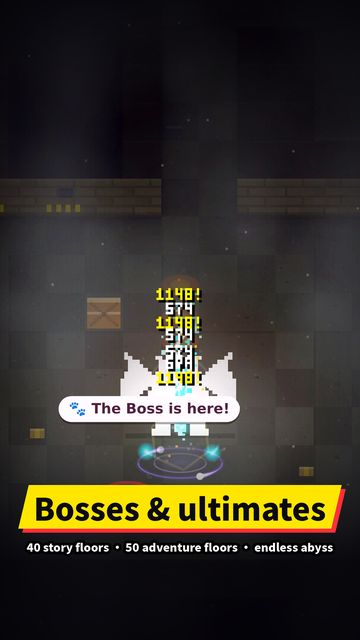
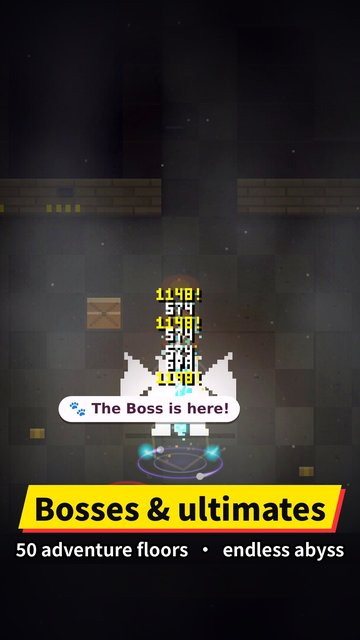
媒體資料、遊戲頁：AI 素材標示改成統一說法（插畫頭像是 AI 生成）；截圖拿掉故事層數
Claude-Session: https://claude.ai/code/session_01RSLKRUKWEYHR6oohRmj5VF

Changed region(s): [[0.0306, 0.8438, 0.9472, 0.875]]

diff --git a/en/presskit.html b/en/presskit.html
@@ -7,6 +7,6 @@
 <link rel="stylesheet" href="../assets/site.css?v=10202108"><script src="../assets/app.js?v=10202108" defer></script></head>
 <body class="en"><header class="hd"><div class="w"><a class="logo" href="dungeon.html"><img src="../app/dg-logo.png" alt="" width="44" height="44" style="width:44px;height:44px;image-rendering:pixelated;flex:none"><span>Night Market Dungeon</span></a>
 <nav class="nav" aria-label="Menu"><a href="dungeon.html">Play</a><a href="terms.html">Terms &amp; Privacy</a><a href="../dungeon.html" lang="zh-Hant">中文</a></nav></div></header>
-<main class="w"><style>.pk{width:100%;max-width:1000px;margin:0 auto;text-align:left;align-self:stretch}.pk .gl,.pk .gw,.pk dl{width:100%}.pk .cta{justify-content:flex-start}.pk .ptitle{text-align:left}.pk h2{margin:34px 0 12px;font-size:1.25rem}.pk .lead{font-size:1.05rem;line-height:1.75;max-width:70ch}.pk .key{width:100%;height:auto;border:2px solid #000;box-shadow:4px 4px 0 #FFE600;margin:6px 0 4px}.pk .cta{display:flex;flex-wrap:wrap;gap:10px;margin:16px 0}.pk dl{display:grid;grid-template-columns:max-content 1fr;gap:8px 18px;margin:0}.pk dt{color:#B8A8D8;font-weight:700}.pk dd{margin:0}.pk ul.ft2{padding-left:1.2em;line-height:1.8}.pk .gl{display:grid;grid-template-columns:repeat(auto-fill,minmax(150px,1fr));gap:10px}.pk .gw{display:grid;grid-template-columns:repeat(auto-fill,minmax(280px,1fr));gap:10px}.pk .gl a,.pk .gw a{display:block;border:2px solid #000;background:#000}.pk .gl img,.pk .gw img{display:block;width:100%;height:auto}.pk .ic{display:flex;gap:16px;align-items:center;flex-wrap:wrap}.pk .ic img{width:96px;height:96px;image-rendering:pixelated;border:2px solid #000}.pk .note{color:#9A8AB8;font-size:.9rem}@media (max-width:560px){.pk dl{grid-template-columns:1fr}.pk dt{margin-top:6px}}</style><div class="pk"><span class="kick" style="margin-top:22px">PRESS KIT</span><h1 class="ptitle" style="margin-bottom:12px">Night Market Dungeon — Press Kit</h1><img class="key" src="../presskit/key_en.jpg" width="1024" height="500" alt="Night Market Dungeon key art"><p class="lead">When the night market closes, the dungeon underneath wakes up. Night Market Dungeon is a pixel action roguelite set under a Taiwanese night market: grab a spatula, an umbrella or your phone and fight your way down, collect legendary weapons, run your own night-market manor, and work a 3D sausage stall — solo or with up to 4 players online. It runs right in your phone or desktop browser, no download needed — and it is also on the App Store (iPhone) and Google Play (Android).</p><div class="cta"><a class="btn y" href="dungeon.html?src=presskit">▶ Play now (browser)</a><a class="btn o" href="https://apps.apple.com/tw/app/id6821595769" target="_blank" rel="noopener">App Store</a><a class="btn o" href="https://play.google.com/store/apps/details?id=com.youbishop.nightmarket" target="_blank" rel="noopener">Google Play</a><a class="btn o" href="../presskit.html" lang="zh-Hant">中文媒體資料</a><a class="btn o" href="mailto:kunoya.store@gmail.com?subject=Night%20Market%20Dungeon%20press">✉ Press contact</a></div><h2>Fact sheet</h2><dl><dt>Title</dt><dd>Night Market Dungeon (夜市地下城)</dd><dt>Developer</dt><dd>玖悠谷國際企業社 (Taiwan)</dd><dt>Genre</dt><dd>Pixel action roguelite</dd><dt>Platforms</dt><dd>Web browser (mobile &amp; desktop), Android, iPhone</dd><dt>Players</dt><dd>Single player, or online co-op for up to 4</dd><dt>Languages</dt><dd>English, Traditional Chinese</dd><dt>Price</dt><dd>Free to play; optional cosmetics. No gacha, loot boxes or random paid items; levels and XP cannot be bought</dd><dt>Rating</dt><dd>Rated 15+ (cartoon pixel combat; blood effects can be turned off)</dd><dt>Updates</dt><dd>Weekly</dd><dt>Contact</dt><dd><a href="mailto:kunoya.store@gmail.com">kunoya.store@gmail.com</a></dd></dl><h2>Features</h2><ul class="ft2"><li><b>Snappy pixel action</b>: melee, ranged and a 3-stage charged throw; time your parry to send bullets back; smash the walls.</li><li><b>Legendary weapons</b>: every legendary weapon has its own skill, plus the Golden Dragon ultimate.</li><li><b>Lots to play</b>: Story Mode, a 50-floor Adventure Mode plus the endless Abyss, Guardian Trials and a Daily Challenge.</li><li><b>3D sausage stall</b> (new): flip, fan the fire and glaze; residents you know drop by to chat. Run it together with 2–4 players.</li><li><b>Online co-op for up to 4</b>: join friends by room code or quick match; chat is safety-filtered.</li><li><b>Manor &amp; pets</b>: build your own night-market manor, raise pets and befriend the residents.</li><li><b>Fair monetization</b>: upgrades and star-ups always succeed; paid items are outfits and pets only.</li></ul><h2>Screenshots</h2><p class="note">Click for full size (landscape 1600 px, portrait 1080×1920).</p><div class="gw"><a href="../presskit/land_1.jpg" target="_blank" rel="noopener"><img loading="lazy" src="../presskit/t/land_1.jpg" width="640" height="360" alt=""></a><a href="../presskit/land_2.jpg" target="_blank" rel="noopener"><img loading="lazy" src="../presskit/t/land_2.jpg" width="640" height="360" alt=""></a><a href="../presskit/land_3.jpg" target="_blank" rel="noopener"><img loading="lazy" src="../presskit/t/land_3.jpg" width="640" height="360" alt=""></a><a href="../presskit/land_4.jpg" target="_blank" rel="noopener"><img loading="lazy" src="../presskit/t/land_4.jpg" width="640" height="360" alt=""></a></div><div class="gl" style="margin-top:10px"><a href="../presskit/en_01.jpg" target="_blank" rel="noopener"><img loading="lazy" src="../presskit/t/en_01.jpg" width="360" height="640" alt=""></a><a href="../presskit/en_02.jpg" target="_blank" rel="noopener"><img loading="lazy" src="../presskit/t/en_02.jpg" width="360" height="640" alt=""></a><a href="../presskit/en_03.jpg" target="_blank" rel="noopener"><img loading="lazy" src="../presskit/t/en_03.jpg" width="360" height="640" alt=""></a><a href="../presskit/en_04.jpg" target="_blank" rel="noopener"><img loading="lazy" src="../presskit/t/en_04.jpg" width="360" height="640" alt=""></a><a href="../presskit/en_05.jpg" target="_blank" rel="noopener"><img loading="lazy" src="../presskit/t/en_05.jpg" width="360" height="640" alt=""></a><a href="../presskit/en_06.jpg" target="_blank" rel="noopener"><img loading="lazy" src="../presskit/t/en_06.jpg" width="360" height="640" alt=""></a><a href="../presskit/en_07.jpg" target="_blank" rel="noopener"><img loading="lazy" src="../presskit/t/en_07.jpg" width="360" height="640" alt=""></a><a href="../presskit/en_08.jpg" target="_blank" rel="noopener"><img loading="lazy" src="../presskit/t/en_08.jpg" width="360" height="640" alt=""></a><a href="../presskit/en_09.jpg" target="_blank" rel="noopener"><img loading="lazy" src="../presskit/t/en_09.jpg" width="360" height="640" alt=""></a><a href="../presskit/en_10.jpg" target="_blank" rel="noopener"><img loading="lazy" src="../presskit/t/en_10.jpg" width="360" height="640" alt=""></a></div><h2>Logo</h2><div class="ic"><img src="../app/dg-512.png" alt="Night Market Dungeon icon"><p>App icon (512×512 PNG): <a href="../app/dg-512.png" target="_blank" rel="noopener">download</a></p></div><h2>Usage</h2><p>Press, reviewers, streamers and video creators may use the screenshots, key art and icon on this page for coverage — monetized videos are fine, no need to ask. Please don't alter the logo or use it to imply a partnership or endorsement.</p><p class="note">All in-game art is original pixel art. Boss Nightcat and the residents talk through AI; this is labeled in the game and is for fun only.</p></div></main>
+<main class="w"><style>.pk{width:100%;max-width:1000px;margin:0 auto;text-align:left;align-self:stretch}.pk .gl,.pk .gw,.pk dl{width:100%}.pk .cta{justify-content:flex-start}.pk .ptitle{text-align:left}.pk h2{margin:34px 0 12px;font-size:1.25rem}.pk .lead{font-size:1.05rem;line-height:1.75;max-width:70ch}.pk .key{width:100%;height:auto;border:2px solid #000;box-shadow:4px 4px 0 #FFE600;margin:6px 0 4px}.pk .cta{display:flex;flex-wrap:wrap;gap:10px;margin:16px 0}.pk dl{display:grid;grid-template-columns:max-content 1fr;gap:8px 18px;margin:0}.pk dt{color:#B8A8D8;font-weight:700}.pk dd{margin:0}.pk ul.ft2{padding-left:1.2em;line-height:1.8}.pk .gl{display:grid;grid-template-columns:repeat(auto-fill,minmax(150px,1fr));gap:10px}.pk .gw{display:grid;grid-template-columns:repeat(auto-fill,minmax(280px,1fr));gap:10px}.pk .gl a,.pk .gw a{display:block;border:2px solid #000;background:#000}.pk .gl img,.pk .gw img{display:block;width:100%;height:auto}.pk .ic{display:flex;gap:16px;align-items:center;flex-wrap:wrap}.pk .ic img{width:96px;height:96px;image-rendering:pixelated;border:2px solid #000}.pk .note{color:#9A8AB8;font-size:.9rem}@media (max-width:560px){.pk dl{grid-template-columns:1fr}.pk dt{margin-top:6px}}</style><div class="pk"><span class="kick" style="margin-top:22px">PRESS KIT</span><h1 class="ptitle" style="margin-bottom:12px">Night Market Dungeon — Press Kit</h1><img class="key" src="../presskit/key_en.jpg" width="1024" height="500" alt="Night Market Dungeon key art"><p class="lead">When the night market closes, the dungeon underneath wakes up. Night Market Dungeon is a pixel action roguelite set under a Taiwanese night market: grab a spatula, an umbrella or your phone and fight your way down, collect legendary weapons, run your own night-market manor, and work a 3D sausage stall — solo or with up to 4 players online. It runs right in your phone or desktop browser, no download needed — and it is also on the App Store (iPhone) and Google Play (Android).</p><div class="cta"><a class="btn y" href="dungeon.html?src=presskit">▶ Play now (browser)</a><a class="btn o" href="https://apps.apple.com/tw/app/id6821595769" target="_blank" rel="noopener">App Store</a><a class="btn o" href="https://play.google.com/store/apps/details?id=com.youbishop.nightmarket" target="_blank" rel="noopener">Google Play</a><a class="btn o" href="../presskit.html" lang="zh-Hant">中文媒體資料</a><a class="btn o" href="mailto:kunoya.store@gmail.com?subject=Night%20Market%20Dungeon%20press">✉ Press contact</a></div><h2>Fact sheet</h2><dl><dt>Title</dt><dd>Night Market Dungeon (夜市地下城)</dd><dt>Developer</dt><dd>玖悠谷國際企業社 (Taiwan)</dd><dt>Genre</dt><dd>Pixel action roguelite</dd><dt>Platforms</dt><dd>Web browser (mobile &amp; desktop), Android, iPhone</dd><dt>Players</dt><dd>Single player, or online co-op for up to 4</dd><dt>Languages</dt><dd>English, Traditional Chinese</dd><dt>Price</dt><dd>Free to play; optional cosmetics. No gacha, loot boxes or random paid items; levels and XP cannot be bought</dd><dt>Rating</dt><dd>Rated 15+ (cartoon pixel combat; blood effects can be turned off)</dd><dt>Updates</dt><dd>Weekly</dd><dt>Contact</dt><dd><a href="mailto:kunoya.store@gmail.com">kunoya.store@gmail.com</a></dd></dl><h2>Features</h2><ul class="ft2"><li><b>Snappy pixel action</b>: melee, ranged and a 3-stage charged throw; time your parry to send bullets back; smash the walls.</li><li><b>Legendary weapons</b>: every legendary weapon has its own skill, plus the Golden Dragon ultimate.</li><li><b>Lots to play</b>: Story Mode, a 50-floor Adventure Mode plus the endless Abyss, Guardian Trials and a Daily Challenge.</li><li><b>3D sausage stall</b> (new): flip, fan the fire and glaze; residents you know drop by to chat. Run it together with 2–4 players.</li><li><b>Online co-op for up to 4</b>: join friends by room code or quick match; chat is safety-filtered.</li><li><b>Manor &amp; pets</b>: build your own night-market manor, raise pets and befriend the residents.</li><li><b>Fair monetization</b>: upgrades and star-ups always succeed; paid items are outfits and pets only.</li></ul><h2>Screenshots</h2><p class="note">Click for full size (landscape 1600 px, portrait 1080×1920).</p><div class="gw"><a href="../presskit/land_1.jpg" target="_blank" rel="noopener"><img loading="lazy" src="../presskit/t/land_1.jpg" width="640" height="360" alt=""></a><a href="../presskit/land_2.jpg" target="_blank" rel="noopener"><img loading="lazy" src="../presskit/t/land_2.jpg" width="640" height="360" alt=""></a><a href="../presskit/land_3.jpg" target="_blank" rel="noopener"><img loading="lazy" src="../presskit/t/land_3.jpg" width="640" height="360" alt=""></a><a href="../presskit/land_4.jpg" target="_blank" rel="noopener"><img loading="lazy" src="../presskit/t/land_4.jpg" width="640" height="360" alt=""></a></div><div class="gl" style="margin-top:10px"><a href="../presskit/en_01.jpg" target="_blank" rel="noopener"><img loading="lazy" src="../presskit/t/en_01.jpg" width="360" height="640" alt=""></a><a href="../presskit/en_02.jpg" target="_blank" rel="noopener"><img loading="lazy" src="../presskit/t/en_02.jpg" width="360" height="640" alt=""></a><a href="../presskit/en_03.jpg" target="_blank" rel="noopener"><img loading="lazy" src="../presskit/t/en_03.jpg" width="360" height="640" alt=""></a><a href="../presskit/en_04.jpg" target="_blank" rel="noopener"><img loading="lazy" src="../presskit/t/en_04.jpg" width="360" height="640" alt=""></a><a href="../presskit/en_05.jpg" target="_blank" rel="noopener"><img loading="lazy" src="../presskit/t/en_05.jpg" width="360" height="640" alt=""></a><a href="../presskit/en_06.jpg" target="_blank" rel="noopener"><img loading="lazy" src="../presskit/t/en_06.jpg" width="360" height="640" alt=""></a><a href="../presskit/en_07.jpg" target="_blank" rel="noopener"><img loading="lazy" src="../presskit/t/en_07.jpg" width="360" height="640" alt=""></a><a href="../presskit/en_08.jpg" target="_blank" rel="noopener"><img loading="lazy" src="../presskit/t/en_08.jpg" width="360" height="640" alt=""></a><a href="../presskit/en_09.jpg" target="_blank" rel="noopener"><img loading="lazy" src="../presskit/t/en_09.jpg" width="360" height="640" alt=""></a><a href="../presskit/en_10.jpg" target="_blank" rel="noopener"><img loading="lazy" src="../presskit/t/en_10.jpg" width="360" height="640" alt=""></a></div><h2>Logo</h2><div class="ic"><img src="../app/dg-512.png" alt="Night Market Dungeon icon"><p>App icon (512×512 PNG): <a href="../app/dg-512.png" target="_blank" rel="noopener">download</a></p></div><h2>Usage</h2><p>Press, reviewers, streamers and video creators may use the screenshots, key art and icon on this page for coverage — monetized videos are fine, no need to ask. Please don't alter the logo or use it to imply a partnership or endorsement.</p><p class="note">This game contains AI-generated assets; Boss Nightcat&#x27;s and the residents&#x27; dialogue is generated by AI, for entertainment only.</p></div></main>
 <footer class="ft"><div class="w"><p>Night Market Dungeon · by 玖悠谷game (Jiuyougu Game) · youbi-shop.com　|　<a href="terms.html">Terms of Service &amp; Privacy</a></p><p>An indie game studio in Taiwan.</p></div></footer>
 </body></html>

diff --git a/presskit.html b/presskit.html
@@ -7,7 +7,7 @@
 <header class="hd"><div class="w"><a class="logo" href="index.html"><img src="app/dg-logo.png" alt="" width="44" height="44" style="width:44px;height:44px;image-rendering:pixelated;flex:none"><span>玖悠谷game</span></a>
 
 <nav class="nav" aria-label="主選單"><a href="index.html">首頁</a><a href="dungeon.html" aria-current="page">夜市地下城</a><a href="presskit.html">媒體資料</a><a href="terms.html">條款與隱私</a></nav></div></header>
-<main class="w"><style>.pk{width:100%;max-width:1000px;margin:0 auto;text-align:left;align-self:stretch}.pk .gl,.pk .gw,.pk dl{width:100%}.pk .cta{justify-content:flex-start}.pk .ptitle{text-align:left}.pk h2{margin:34px 0 12px;font-size:1.25rem}.pk .lead{font-size:1.05rem;line-height:1.75;max-width:70ch}.pk .key{width:100%;height:auto;border:2px solid #000;box-shadow:4px 4px 0 #FFE600;margin:6px 0 4px}.pk .cta{display:flex;flex-wrap:wrap;gap:10px;margin:16px 0}.pk dl{display:grid;grid-template-columns:max-content 1fr;gap:8px 18px;margin:0}.pk dt{color:#B8A8D8;font-weight:700}.pk dd{margin:0}.pk ul.ft2{padding-left:1.2em;line-height:1.8}.pk .gl{display:grid;grid-template-columns:repeat(auto-fill,minmax(150px,1fr));gap:10px}.pk .gw{display:grid;grid-template-columns:repeat(auto-fill,minmax(280px,1fr));gap:10px}.pk .gl a,.pk .gw a{display:block;border:2px solid #000;background:#000}.pk .gl img,.pk .gw img{display:block;width:100%;height:auto}.pk .ic{display:flex;gap:16px;align-items:center;flex-wrap:wrap}.pk .ic img{width:96px;height:96px;image-rendering:pixelated;border:2px solid #000}.pk .note{color:#9A8AB8;font-size:.9rem}@media (max-width:560px){.pk dl{grid-template-columns:1fr}.pk dt{margin-top:6px}}</style><div class="pk"><span class="kick" style="margin-top:22px">PRESS KIT</span><h1 class="ptitle" style="margin-bottom:12px">夜市地下城 媒體資料</h1><img class="key" src="presskit/key_zh.jpg" width="1024" height="500" alt="夜市地下城 主視覺"><p class="lead">夜市打烊後，攤位底下的地下城醒了過來。《夜市地下城》是以台灣夜市為主題的像素動作冒險遊戲，拿起鍋鏟、雨傘、手機往下一層一層打，收集傳說武器、經營自己的夜市莊園，也可以在 3D 烤香腸攤顧攤，最多 4 人連線一起玩。手機、電腦打開瀏覽器就能玩，不用下載；也有 iPhone（App Store）和 Android（Google Play）版。</p><div class="cta"><a class="btn y" href="dungeon.html?src=presskit">▶ 立即試玩（網頁版）</a><a class="btn o" href="https://apps.apple.com/tw/app/id6821595769" target="_blank" rel="noopener">App Store</a><a class="btn o" href="https://play.google.com/store/apps/details?id=com.youbishop.nightmarket" target="_blank" rel="noopener">Google Play</a><a class="btn o" href="en/presskit.html">English press kit</a><a class="btn o" href="mailto:kunoya.store@gmail.com?subject=%E5%A4%9C%E5%B8%82%E5%9C%B0%E4%B8%8B%E5%9F%8E%20%E5%AA%92%E9%AB%94%E8%81%AF%E7%B5%A1">✉ 媒體聯絡</a></div><h2>基本資料</h2><dl><dt>遊戲名稱</dt><dd>夜市地下城（Night Market Dungeon）</dd><dt>開發／營運</dt><dd>玖悠谷國際企業社（台灣）</dd><dt>類型</dt><dd>像素動作冒險、Roguelite</dd><dt>平台</dt><dd>網頁瀏覽器（手機、電腦）、Android、iPhone</dd><dt>人數</dt><dd>單人，或最多 4 人連線合作</dd><dt>語言</dt><dd>繁體中文、英文</dd><dt>價格</dt><dd>免費遊玩；可選購造型類道具，沒有轉蛋、抽獎或機率商品，等級和經驗不能買</dd><dt>分級</dt><dd>輔導十五歲級（卡通像素打鬥，流血效果可以關掉）</dd><dt>更新</dt><dd>每週更新</dd><dt>聯絡</dt><dd><a href="mailto:kunoya.store@gmail.com">kunoya.store@gmail.com</a></dd></dl><h2>遊戲特色</h2><ul class="ft2"><li><b>爽快的像素動作</b>：近戰、遠程、三段蓄力投擲；看準時機格擋，把子彈打回去；牆壁打得碎。</li><li><b>傳說武器與專屬必殺</b>：每一把傳說武器都有自己的技能，還有奧義「金龍巡夜」。</li><li><b>豐富的關卡</b>：故事模式、冒險模式 50 層＋無盡深淵、守護神的試煉、每日挑戰。</li><li><b>3D 夜市烤香腸攤</b>（新）：翻面、搧火、刷醬，熟識的居民會來光顧、找你聊天；也能 2～4 人一起顧攤。</li><li><b>最多 4 人連線</b>：房號找朋友或隨機配對，聊天有安全過濾。</li><li><b>夜市莊園與寵物</b>：經營自己的莊園、養寵物、跟居民交朋友。</li><li><b>公平付費</b>：強化、升星 100% 成功，不靠運氣；付費內容只有造型和寵物。</li></ul><h2>截圖</h2><p class="note">點圖片看原尺寸（橫式 1600 px、直式 1080×1920）。</p><div class="gw"><a href="presskit/land_1.jpg" target="_blank" rel="noopener"><img loading="lazy" src="presskit/t/land_1.jpg" width="640" height="360" alt=""></a><a href="presskit/land_2.jpg" target="_blank" rel="noopener"><img loading="lazy" src="presskit/t/land_2.jpg" width="640" height="360" alt=""></a><a href="presskit/land_3.jpg" target="_blank" rel="noopener"><img loading="lazy" src="presskit/t/land_3.jpg" width="640" height="360" alt=""></a><a href="presskit/land_4.jpg" target="_blank" rel="noopener"><img loading="lazy" src="presskit/t/land_4.jpg" width="640" height="360" alt=""></a></div><div class="gl" style="margin-top:10px"><a href="presskit/zh_01.jpg" target="_blank" rel="noopener"><img loading="lazy" src="presskit/t/zh_01.jpg" width="360" height="640" alt=""></a><a href="presskit/zh_02.jpg" target="_blank" rel="noopener"><img loading="lazy" src="presskit/t/zh_02.jpg" width="360" height="640" alt=""></a><a href="presskit/zh_03.jpg" target="_blank" rel="noopener"><img loading="lazy" src="presskit/t/zh_03.jpg" width="360" height="640" alt=""></a><a href="presskit/zh_04.jpg" target="_blank" rel="noopener"><img loading="lazy" src="presskit/t/zh_04.jpg" width="360" height="640" alt=""></a><a href="presskit/zh_05.jpg" target="_blank" rel="noopener"><img loading="lazy" src="presskit/t/zh_05.jpg" width="360" height="640" alt=""></a><a href="presskit/zh_06.jpg" target="_blank" rel="noopener"><img loading="lazy" src="presskit/t/zh_06.jpg" width="360" height="640" alt=""></a><a href="presskit/zh_07.jpg" target="_blank" rel="noopener"><img loading="lazy" src="presskit/t/zh_07.jpg" width="360" height="640" alt=""></a><a href="presskit/zh_08.jpg" target="_blank" rel="noopener"><img loading="lazy" src="presskit/t/zh_08.jpg" width="360" height="640" alt=""></a><a href="presskit/zh_09.jpg" target="_blank" rel="noopener"><img loading="lazy" src="presskit/t/zh_09.jpg" width="360" height="640" alt=""></a><a href="presskit/zh_10.jpg" target="_blank" rel="noopener"><img loading="lazy" src="presskit/t/zh_10.jpg" width="360" height="640" alt=""></a></div><h2>標誌</h2><div class="ic"><img src="app/dg-512.png" alt="夜市地下城 圖示"><p>App 圖示（512×512 PNG）：<a href="app/dg-512.png" target="_blank" rel="noopener">下載</a></p></div><h2>使用說明</h2><p>媒體報導、評測、實況與影片都可以直接使用本頁的截圖、主視覺和圖示，影片可以營利，不用另外申請。請不要修改標誌，也不要拿來暗示有合作或代言。</p><p class="note">遊戲中所有美術都是原創像素美術。夜貓老闆和居民的對話由 AI 產生，遊戲內有標示，僅供娛樂。</p></div></main>
+<main class="w"><style>.pk{width:100%;max-width:1000px;margin:0 auto;text-align:left;align-self:stretch}.pk .gl,.pk .gw,.pk dl{width:100%}.pk .cta{justify-content:flex-start}.pk .ptitle{text-align:left}.pk h2{margin:34px 0 12px;font-size:1.25rem}.pk .lead{font-size:1.05rem;line-height:1.75;max-width:70ch}.pk .key{width:100%;height:auto;border:2px solid #000;box-shadow:4px 4px 0 #FFE600;margin:6px 0 4px}.pk .cta{display:flex;flex-wrap:wrap;gap:10px;margin:16px 0}.pk dl{display:grid;grid-template-columns:max-content 1fr;gap:8px 18px;margin:0}.pk dt{color:#B8A8D8;font-weight:700}.pk dd{margin:0}.pk ul.ft2{padding-left:1.2em;line-height:1.8}.pk .gl{display:grid;grid-template-columns:repeat(auto-fill,minmax(150px,1fr));gap:10px}.pk .gw{display:grid;grid-template-columns:repeat(auto-fill,minmax(280px,1fr));gap:10px}.pk .gl a,.pk .gw a{display:block;border:2px solid #000;background:#000}.pk .gl img,.pk .gw img{display:block;width:100%;height:auto}.pk .ic{display:flex;gap:16px;align-items:center;flex-wrap:wrap}.pk .ic img{width:96px;height:96px;image-rendering:pixelated;border:2px solid #000}.pk .note{color:#9A8AB8;font-size:.9rem}@media (max-width:560px){.pk dl{grid-template-columns:1fr}.pk dt{margin-top:6px}}</style><div class="pk"><span class="kick" style="margin-top:22px">PRESS KIT</span><h1 class="ptitle" style="margin-bottom:12px">夜市地下城 媒體資料</h1><img class="key" src="presskit/key_zh.jpg" width="1024" height="500" alt="夜市地下城 主視覺"><p class="lead">夜市打烊後，攤位底下的地下城醒了過來。《夜市地下城》是以台灣夜市為主題的像素動作冒險遊戲，拿起鍋鏟、雨傘、手機往下一層一層打，收集傳說武器、經營自己的夜市莊園，也可以在 3D 烤香腸攤顧攤，最多 4 人連線一起玩。手機、電腦打開瀏覽器就能玩，不用下載；也有 iPhone（App Store）和 Android（Google Play）版。</p><div class="cta"><a class="btn y" href="dungeon.html?src=presskit">▶ 立即試玩（網頁版）</a><a class="btn o" href="https://apps.apple.com/tw/app/id6821595769" target="_blank" rel="noopener">App Store</a><a class="btn o" href="https://play.google.com/store/apps/details?id=com.youbishop.nightmarket" target="_blank" rel="noopener">Google Play</a><a class="btn o" href="en/presskit.html">English press kit</a><a class="btn o" href="mailto:kunoya.store@gmail.com?subject=%E5%A4%9C%E5%B8%82%E5%9C%B0%E4%B8%8B%E5%9F%8E%20%E5%AA%92%E9%AB%94%E8%81%AF%E7%B5%A1">✉ 媒體聯絡</a></div><h2>基本資料</h2><dl><dt>遊戲名稱</dt><dd>夜市地下城（Night Market Dungeon）</dd><dt>開發／營運</dt><dd>玖悠谷國際企業社（台灣）</dd><dt>類型</dt><dd>像素動作冒險、Roguelite</dd><dt>平台</dt><dd>網頁瀏覽器（手機、電腦）、Android、iPhone</dd><dt>人數</dt><dd>單人，或最多 4 人連線合作</dd><dt>語言</dt><dd>繁體中文、英文</dd><dt>價格</dt><dd>免費遊玩；可選購造型類道具，沒有轉蛋、抽獎或機率商品，等級和經驗不能買</dd><dt>分級</dt><dd>輔導十五歲級（卡通像素打鬥，流血效果可以關掉）</dd><dt>更新</dt><dd>每週更新</dd><dt>聯絡</dt><dd><a href="mailto:kunoya.store@gmail.com">kunoya.store@gmail.com</a></dd></dl><h2>遊戲特色</h2><ul class="ft2"><li><b>爽快的像素動作</b>：近戰、遠程、三段蓄力投擲；看準時機格擋，把子彈打回去；牆壁打得碎。</li><li><b>傳說武器與專屬必殺</b>：每一把傳說武器都有自己的技能，還有奧義「金龍巡夜」。</li><li><b>豐富的關卡</b>：故事模式、冒險模式 50 層＋無盡深淵、守護神的試煉、每日挑戰。</li><li><b>3D 夜市烤香腸攤</b>（新）：翻面、搧火、刷醬，熟識的居民會來光顧、找你聊天；也能 2～4 人一起顧攤。</li><li><b>最多 4 人連線</b>：房號找朋友或隨機配對，聊天有安全過濾。</li><li><b>夜市莊園與寵物</b>：經營自己的莊園、養寵物、跟居民交朋友。</li><li><b>公平付費</b>：強化、升星 100% 成功，不靠運氣；付費內容只有造型和寵物。</li></ul><h2>截圖</h2><p class="note">點圖片看原尺寸（橫式 1600 px、直式 1080×1920）。</p><div class="gw"><a href="presskit/land_1.jpg" target="_blank" rel="noopener"><img loading="lazy" src="presskit/t/land_1.jpg" width="640" height="360" alt=""></a><a href="presskit/land_2.jpg" target="_blank" rel="noopener"><img loading="lazy" src="presskit/t/land_2.jpg" width="640" height="360" alt=""></a><a href="presskit/land_3.jpg" target="_blank" rel="noopener"><img loading="lazy" src="presskit/t/land_3.jpg" width="640" height="360" alt=""></a><a href="presskit/land_4.jpg" target="_blank" rel="noopener"><img loading="lazy" src="presskit/t/land_4.jpg" width="640" height="360" alt=""></a></div><div class="gl" style="margin-top:10px"><a href="presskit/zh_01.jpg" target="_blank" rel="noopener"><img loading="lazy" src="presskit/t/zh_01.jpg" width="360" height="640" alt=""></a><a href="presskit/zh_02.jpg" target="_blank" rel="noopener"><img loading="lazy" src="presskit/t/zh_02.jpg" width="360" height="640" alt=""></a><a href="presskit/zh_03.jpg" target="_blank" rel="noopener"><img loading="lazy" src="presskit/t/zh_03.jpg" width="360" height="640" alt=""></a><a href="presskit/zh_04.jpg" target="_blank" rel="noopener"><img loading="lazy" src="presskit/t/zh_04.jpg" width="360" height="640" alt=""></a><a href="presskit/zh_05.jpg" target="_blank" rel="noopener"><img loading="lazy" src="presskit/t/zh_05.jpg" width="360" height="640" alt=""></a><a href="presskit/zh_06.jpg" target="_blank" rel="noopener"><img loading="lazy" src="presskit/t/zh_06.jpg" width="360" height="640" alt=""></a><a href="presskit/zh_07.jpg" target="_blank" rel="noopener"><img loading="lazy" src="presskit/t/zh_07.jpg" width="360" height="640" alt=""></a><a href="presskit/zh_08.jpg" target="_blank" rel="noopener"><img loading="lazy" src="presskit/t/zh_08.jpg" width="360" height="640" alt=""></a><a href="presskit/zh_09.jpg" target="_blank" rel="noopener"><img loading="lazy" src="presskit/t/zh_09.jpg" width="360" height="640" alt=""></a><a href="presskit/zh_10.jpg" target="_blank" rel="noopener"><img loading="lazy" src="presskit/t/zh_10.jpg" width="360" height="640" alt=""></a></div><h2>標誌</h2><div class="ic"><img src="app/dg-512.png" alt="夜市地下城 圖示"><p>App 圖示（512×512 PNG）：<a href="app/dg-512.png" target="_blank" rel="noopener">下載</a></p></div><h2>使用說明</h2><p>媒體報導、評測、實況與影片都可以直接使用本頁的截圖、主視覺和圖示，影片可以營利，不用另外申請。請不要修改標誌，也不要拿來暗示有合作或代言。</p><p class="note">本遊戲包含 AI 生成素材；夜貓老闆和居民的對話由 AI 產生，僅供娛樂。</p></div></main>
 <footer class="ft"><div class="w"><p>玖悠谷game · youbi-shop.com　｜　<a href="terms.html">遊戲服務條款與隱私</a>　｜　<a href="disclosure.html">推廣連結說明</a></p>
 <p>獨立遊戲工作室，在台灣製作。遊戲內「禮品攤」的商品頁含推廣連結，經由連結購買不會增加你的費用。</p></div></footer>
 </body></html>

diff --git a/en/dungeon.html b/en/dungeon.html
@@ -7,6 +7,6 @@
 <link rel="stylesheet" href="../assets/site.css?v=10202127"><link rel="preload" href="../assets/cubic11.woff2" as="font" type="font/woff2" crossorigin><script type="application/ld+json">{"@context": "https://schema.org", "@type": "VideoGame", "name": "Night Market Dungeon", "alternateName": "夜市地下城", "url": "https://youbi-shop.com/en/dungeon.html", "image": "https://youbi-shop.com/og/dungeon.jpg", "inLanguage": "en", "description": "Free pixel action roguelite in your browser: Story Mode, a 50-floor Adventure Mode, online co-op for up to 4 players. No download.", "genre": ["Action", "Roguelite", "Pixel art"], "gamePlatform": ["Web browser", "Android", "iOS", "PC"], "applicationCategory": "Game", "operatingSystem": "Any", "playMode": ["SinglePlayer", "CoOp"], "numberOfPlayers": {"@type": "QuantitativeValue", "minValue": 1, "maxValue": 4}, "contentRating": "Rated 15+", "offers": {"@type": "Offer", "price": "0", "priceCurrency": "USD", "availability": "https://schema.org/InStock"}}</script><script src="../assets/app.js?v=10202127" defer></script><script src="../assets/dungeon.en.js?v=10221403" defer></script></head>
 <body class="en"><header class="hd"><div class="w"><a class="logo" href="dungeon.html"><img src="../app/dg-logo.png" alt="" width="44" height="44" style="width:44px;height:44px;image-rendering:pixelated;flex:none"><span>Night Market Dungeon</span></a>
 <nav class="nav" aria-label="Menu"><a href="dungeon.html" aria-current="page">Play</a><a href="terms.html">Terms &amp; Privacy</a><a href="../dungeon.html" lang="zh-Hant">中文</a></nav></div></header>
-<main class="w"><span class="kick" style="margin-top:22px">PIXEL ROGUELITE</span><h1 class="ptitle" style="margin-bottom:12px">Night Market Dungeon</h1><style>.dgld{position:absolute;inset:0;z-index:40;display:flex;flex-direction:column;align-items:center;justify-content:center;gap:14px;background:#07060a;color:#FFE27A;font:700 1rem/1.2 Cubic11,monospace;letter-spacing:.06em;transition:opacity .25s}.dgld b{font-size:1.5rem;color:#FFD23C;text-shadow:2px 2px 0 #7A1E1E}.dgld i{display:block;width:168px;height:14px;padding:2px;border:2px solid #FFE27A;box-shadow:0 0 0 2px #140A18,0 0 14px rgba(255,120,40,.45);background:#140A18}.dgld s{display:block;height:100%;width:10%;background:repeating-linear-gradient(90deg,#FF5A5A 0 10px,#FFB0A8 10px 12px);animation:dgld 1.6s steps(10) infinite}.dgld small{font-size:.8rem;color:#C8B8E0}@keyframes dgld{from{width:10%}to{width:100%}}@media (prefers-reduced-motion:reduce){.dgld s{animation:none;width:60%}}</style><style>html.dgopfs #dg{position:fixed!important;inset:0!important;z-index:8999!important;width:auto!important;height:auto!important;max-width:none!important;max-height:none!important;margin:0!important;border:0!important;border-radius:0!important;overflow:hidden!important}html.dgopfs #dg .dgov{overflow:visible!important;position:absolute!important;inset:0!important;padding:0!important}html.dgopfs .dgback,html.dgopfs .dgstore,html.dgopfs header.hd{display:none!important}html.dgopfs .dgop.fs{height:100%!important;height:100dvh!important;overflow-y:auto!important}html.dgopfs .dgop.fs.por canvas{width:auto!important;max-width:100%!important;max-height:calc(100dvh - 320px)!important;min-height:120px;margin-left:auto!important;margin-right:auto!important}html.dgopfs .dgop.fs.por #dgopt{min-height:110px!important}</style><div class="dg" id="dg" data-api="https://youbi-shop-api.y927788.workers.dev" data-gcid="583244121695-3sr83o3tmvml020ajs6q84tv48ol5tl9.apps.googleusercontent.com"><div class="dgld" id="dgld"><b>Night Market Dungeon</b><i><s></s></i><small>Loading…</small></div></div><p class="sub" style="margin-top:12px">A pixel action roguelite you can play right in your phone or desktop browser: a Story Mode, a 50-floor Adventure Mode and online co-op for up to 4 players. All original pixel art. Boss Nightcat and the residents talk through AI — their lines are generated automatically, for fun only. Rated 15+ (cartoon pixel violence; blood effects can be turned off). <a href="terms.html">Terms of Service &amp; Privacy</a></p><p class="dgstore" style="display:flex;gap:8px;flex-wrap:wrap;margin:10px 0 0"><a class="btn o" href="https://apps.apple.com/tw/app/id6821595769" target="_blank" rel="noopener">Download on the App Store</a><a class="btn o" href="https://play.google.com/store/apps/details?id=com.youbishop.nightmarket" target="_blank" rel="noopener">Get it on Google Play</a></p><script>try{if(/[?&]app=/.test(location.search)||sessionStorage.getItem("yb_play")==="1"||document.documentElement.dataset.plat||navigator.standalone||matchMedia("(display-mode: standalone),(display-mode: fullscreen)").matches)document.querySelector(".dgstore").style.display="none"}catch(e){}</script></main>
+<main class="w"><span class="kick" style="margin-top:22px">PIXEL ROGUELITE</span><h1 class="ptitle" style="margin-bottom:12px">Night Market Dungeon</h1><style>.dgld{position:absolute;inset:0;z-index:40;display:flex;flex-direction:column;align-items:center;justify-content:center;gap:14px;background:#07060a;color:#FFE27A;font:700 1rem/1.2 Cubic11,monospace;letter-spacing:.06em;transition:opacity .25s}.dgld b{font-size:1.5rem;color:#FFD23C;text-shadow:2px 2px 0 #7A1E1E}.dgld i{display:block;width:168px;height:14px;padding:2px;border:2px solid #FFE27A;box-shadow:0 0 0 2px #140A18,0 0 14px rgba(255,120,40,.45);background:#140A18}.dgld s{display:block;height:100%;width:10%;background:repeating-linear-gradient(90deg,#FF5A5A 0 10px,#FFB0A8 10px 12px);animation:dgld 1.6s steps(10) infinite}.dgld small{font-size:.8rem;color:#C8B8E0}@keyframes dgld{from{width:10%}to{width:100%}}@media (prefers-reduced-motion:reduce){.dgld s{animation:none;width:60%}}</style><style>html.dgopfs #dg{position:fixed!important;inset:0!important;z-index:8999!important;width:auto!important;height:auto!important;max-width:none!important;max-height:none!important;margin:0!important;border:0!important;border-radius:0!important;overflow:hidden!important}html.dgopfs #dg .dgov{overflow:visible!important;position:absolute!important;inset:0!important;padding:0!important}html.dgopfs .dgback,html.dgopfs .dgstore,html.dgopfs header.hd{display:none!important}html.dgopfs .dgop.fs{height:100%!important;height:100dvh!important;overflow-y:auto!important}html.dgopfs .dgop.fs.por canvas{width:auto!important;max-width:100%!important;max-height:calc(100dvh - 320px)!important;min-height:120px;margin-left:auto!important;margin-right:auto!important}html.dgopfs .dgop.fs.por #dgopt{min-height:110px!important}</style><div class="dg" id="dg" data-api="https://youbi-shop-api.y927788.workers.dev" data-gcid="583244121695-3sr83o3tmvml020ajs6q84tv48ol5tl9.apps.googleusercontent.com"><div class="dgld" id="dgld"><b>Night Market Dungeon</b><i><s></s></i><small>Loading…</small></div></div><p class="sub" style="margin-top:12px">A pixel action roguelite you can play right in your phone or desktop browser: a Story Mode, a 50-floor Adventure Mode and online co-op for up to 4 players. This game contains AI-generated assets; Boss Nightcat&#x27;s and the residents&#x27; dialogue is generated by AI, for entertainment only. Rated 15+ (cartoon pixel violence; blood effects can be turned off). <a href="terms.html">Terms of Service &amp; Privacy</a></p><p class="dgstore" style="display:flex;gap:8px;flex-wrap:wrap;margin:10px 0 0"><a class="btn o" href="https://apps.apple.com/tw/app/id6821595769" target="_blank" rel="noopener">Download on the App Store</a><a class="btn o" href="https://play.google.com/store/apps/details?id=com.youbishop.nightmarket" target="_blank" rel="noopener">Get it on Google Play</a></p><script>try{if(/[?&]app=/.test(location.search)||sessionStorage.getItem("yb_play")==="1"||document.documentElement.dataset.plat||navigator.standalone||matchMedia("(display-mode: standalone),(display-mode: fullscreen)").matches)document.querySelector(".dgstore").style.display="none"}catch(e){}</script></main>
 <footer class="ft"><div class="w"><p>Night Market Dungeon · by 玖悠谷game (Jiuyougu Game) · youbi-shop.com　|　<a href="terms.html">Terms of Service &amp; Privacy</a></p><p>An indie game studio in Taiwan.</p></div></footer>
 </body></html>

diff --git a/dungeon.html b/dungeon.html
@@ -7,7 +7,7 @@
 <header class="hd"><div class="w"><a class="logo" href="index.html"><img src="app/dg-logo.png" alt="" width="44" height="44" style="width:44px;height:44px;image-rendering:pixelated;flex:none"><span>玖悠谷game</span></a>
 
 <nav class="nav" aria-label="主選單"><a href="index.html">首頁</a><a href="dungeon.html" aria-current="page">夜市地下城</a><a href="presskit.html">媒體資料</a><a href="terms.html">條款與隱私</a></nav></div></header>
-<main class="w"><span class="kick" style="margin-top:22px">PIXEL ROGUELITE</span><h1 class="ptitle" style="margin-bottom:12px">夜市地下城</h1><style>.dgld{position:absolute;inset:0;z-index:40;display:flex;flex-direction:column;align-items:center;justify-content:center;gap:14px;background:#07060a;color:#FFE27A;font:700 1rem/1.2 Cubic11,monospace;letter-spacing:.06em;transition:opacity .25s}.dgld b{font-size:1.5rem;color:#FFD23C;text-shadow:2px 2px 0 #7A1E1E}.dgld i{display:block;width:168px;height:14px;padding:2px;border:2px solid #FFE27A;box-shadow:0 0 0 2px #140A18,0 0 14px rgba(255,120,40,.45);background:#140A18}.dgld s{display:block;height:100%;width:10%;background:repeating-linear-gradient(90deg,#FF5A5A 0 10px,#FFB0A8 10px 12px);animation:dgld 1.6s steps(10) infinite}.dgld small{font-size:.8rem;color:#C8B8E0}@keyframes dgld{from{width:10%}to{width:100%}}@media (prefers-reduced-motion:reduce){.dgld s{animation:none;width:60%}}</style><style>html.dgopfs #dg{position:fixed!important;inset:0!important;z-index:8999!important;width:auto!important;height:auto!important;max-width:none!important;max-height:none!important;margin:0!important;border:0!important;border-radius:0!important;overflow:hidden!important}html.dgopfs #dg .dgov{overflow:visible!important;position:absolute!important;inset:0!important;padding:0!important}html.dgopfs .dgback,html.dgopfs .dgstore,html.dgopfs header.hd{display:none!important}html.dgopfs .dgop.fs{height:100%!important;height:100dvh!important;overflow-y:auto!important}html.dgopfs .dgop.fs.por canvas{width:auto!important;max-width:100%!important;max-height:calc(100dvh - 320px)!important;min-height:120px;margin-left:auto!important;margin-right:auto!important}html.dgopfs .dgop.fs.por #dgopt{min-height:110px!important}</style><div class="dg" id="dg" data-api="https://youbi-shop-api.y927788.workers.dev" data-gcid="583244121695-3sr83o3tmvml020ajs6q84tv48ol5tl9.apps.googleusercontent.com"><div class="dgld" id="dgld"><b>夜市地下城</b><i><s></s></i><small>載入中…</small></div></div><p class="sub" style="margin-top:12px">像素動作冒險，手機打開就能玩：故事模式、冒險 50 層、最多 4 人連線。全原創像素美術；夜貓老闆和居民的對話由 AI 產生、僅供娛樂；禮品攤的商品頁含推廣連結。輔導十五歲級・<a href="terms.html">遊戲服務與儲值條款</a></p><p class="dgstore" style="display:flex;gap:8px;flex-wrap:wrap;margin:10px 0 0"><a class="btn o" href="https://apps.apple.com/tw/app/id6821595769" target="_blank" rel="noopener">App Store 下載（iPhone）</a><a class="btn o" href="https://play.google.com/store/apps/details?id=com.youbishop.nightmarket" target="_blank" rel="noopener">Google Play 下載（Android）</a></p><script>try{if(/[?&]app=/.test(location.search)||sessionStorage.getItem("yb_play")==="1"||document.documentElement.dataset.plat||navigator.standalone||matchMedia("(display-mode: standalone),(display-mode: fullscreen)").matches)document.querySelector(".dgstore").style.display="none"}catch(e){}</script></main>
+<main class="w"><span class="kick" style="margin-top:22px">PIXEL ROGUELITE</span><h1 class="ptitle" style="margin-bottom:12px">夜市地下城</h1><style>.dgld{position:absolute;inset:0;z-index:40;display:flex;flex-direction:column;align-items:center;justify-content:center;gap:14px;background:#07060a;color:#FFE27A;font:700 1rem/1.2 Cubic11,monospace;letter-spacing:.06em;transition:opacity .25s}.dgld b{font-size:1.5rem;color:#FFD23C;text-shadow:2px 2px 0 #7A1E1E}.dgld i{display:block;width:168px;height:14px;padding:2px;border:2px solid #FFE27A;box-shadow:0 0 0 2px #140A18,0 0 14px rgba(255,120,40,.45);background:#140A18}.dgld s{display:block;height:100%;width:10%;background:repeating-linear-gradient(90deg,#FF5A5A 0 10px,#FFB0A8 10px 12px);animation:dgld 1.6s steps(10) infinite}.dgld small{font-size:.8rem;color:#C8B8E0}@keyframes dgld{from{width:10%}to{width:100%}}@media (prefers-reduced-motion:reduce){.dgld s{animation:none;width:60%}}</style><style>html.dgopfs #dg{position:fixed!important;inset:0!important;z-index:8999!important;width:auto!important;height:auto!important;max-width:none!important;max-height:none!important;margin:0!important;border:0!important;border-radius:0!important;overflow:hidden!important}html.dgopfs #dg .dgov{overflow:visible!important;position:absolute!important;inset:0!important;padding:0!important}html.dgopfs .dgback,html.dgopfs .dgstore,html.dgopfs header.hd{display:none!important}html.dgopfs .dgop.fs{height:100%!important;height:100dvh!important;overflow-y:auto!important}html.dgopfs .dgop.fs.por canvas{width:auto!important;max-width:100%!important;max-height:calc(100dvh - 320px)!important;min-height:120px;margin-left:auto!important;margin-right:auto!important}html.dgopfs .dgop.fs.por #dgopt{min-height:110px!important}</style><div class="dg" id="dg" data-api="https://youbi-shop-api.y927788.workers.dev" data-gcid="583244121695-3sr83o3tmvml020ajs6q84tv48ol5tl9.apps.googleusercontent.com"><div class="dgld" id="dgld"><b>夜市地下城</b><i><s></s></i><small>載入中…</small></div></div><p class="sub" style="margin-top:12px">像素動作冒險，手機打開就能玩：故事模式、冒險 50 層、最多 4 人連線。本遊戲包含 AI 生成素材；夜貓老闆和居民的對話由 AI 產生，僅供娛樂；禮品攤的商品頁含推廣連結。輔導十五歲級・<a href="terms.html">遊戲服務與儲值條款</a></p><p class="dgstore" style="display:flex;gap:8px;flex-wrap:wrap;margin:10px 0 0"><a class="btn o" href="https://apps.apple.com/tw/app/id6821595769" target="_blank" rel="noopener">App Store 下載（iPhone）</a><a class="btn o" href="https://play.google.com/store/apps/details?id=com.youbishop.nightmarket" target="_blank" rel="noopener">Google Play 下載（Android）</a></p><script>try{if(/[?&]app=/.test(location.search)||sessionStorage.getItem("yb_play")==="1"||document.documentElement.dataset.plat||navigator.standalone||matchMedia("(display-mode: standalone),(display-mode: fullscreen)").matches)document.querySelector(".dgstore").style.display="none"}catch(e){}</script></main>
 <footer class="ft"><div class="w"><p>玖悠谷game · youbi-shop.com　｜　<a href="terms.html">遊戲服務條款與隱私</a>　｜　<a href="disclosure.html">推廣連結說明</a></p>
 <p>獨立遊戲工作室，在台灣製作。遊戲內「禮品攤」的商品頁含推廣連結，經由連結購買不會增加你的費用。</p></div></footer>
 </body></html>
